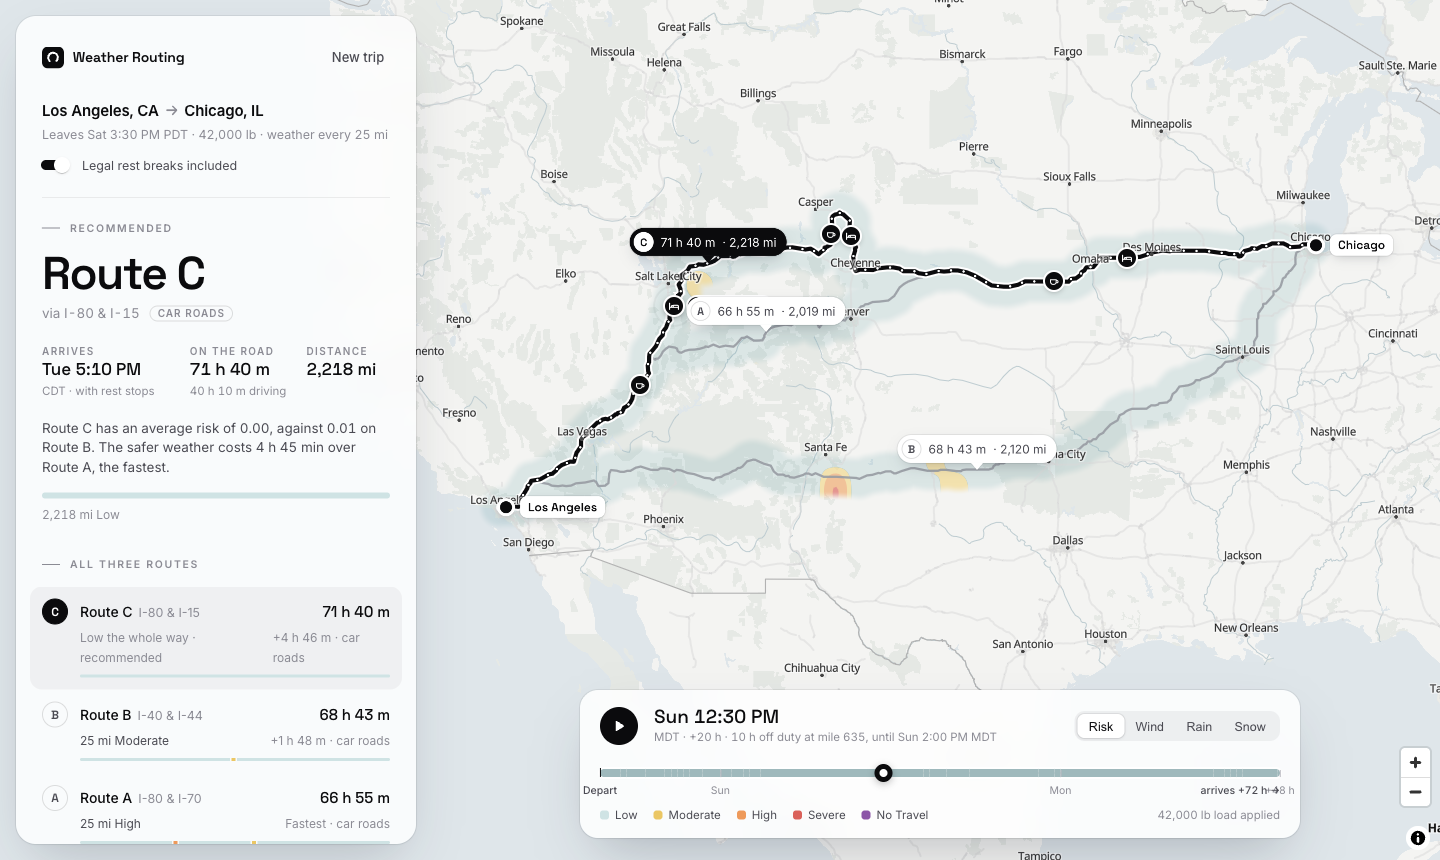
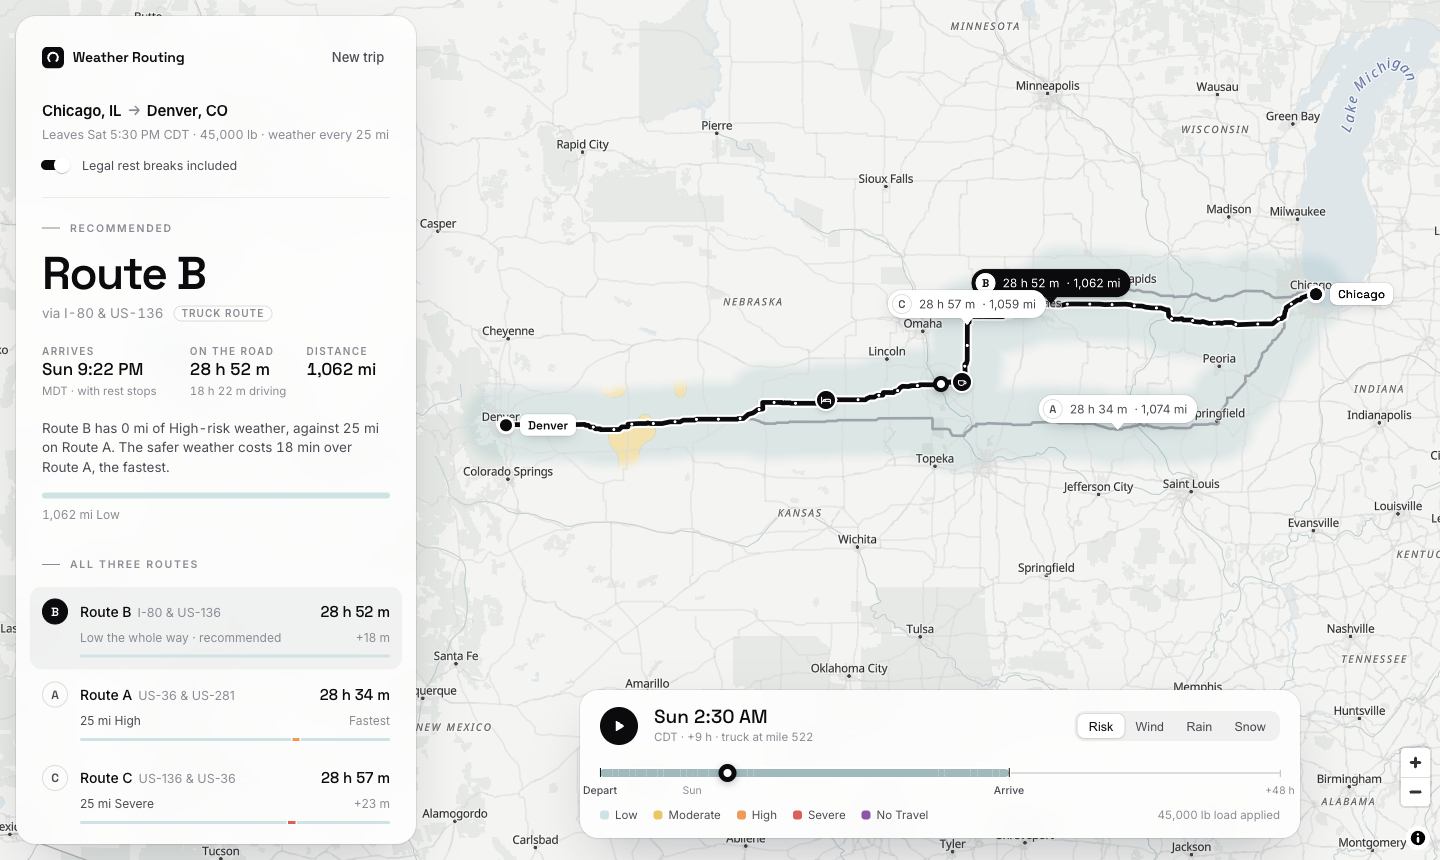
README: matching desktop screenshot (Chicago to Denver)

diff --git a/README.md b/README.md
@@ -2,9 +2,9 @@
 
 Pick the safest truck route, judged by the weather **at the hour the truck reaches each part of the road**, and by the load it carries.
 
-**[Live app](https://weather-truck-routing-ashy.vercel.app)** · **[Video walkthrough](https://www.loom.com/share/bab76d77d2a248faa9c6b97733fd833f)** · React + Django · try the "LA → Chicago" sample
+**[Live app](https://weather-truck-routing-ashy.vercel.app)** · **[Video walkthrough](https://www.loom.com/share/bab76d77d2a248faa9c6b97733fd833f)** · React + Django · try a sample trip
 
-![Los Angeles to Chicago: three routes, the recommendation, rest stops and the weather heatmap 20 hours after departure](docs/desktop.png)
+![Chicago to Denver: three routes, the recommendation and why, rest stops, and the weather heatmap 9 hours after departure](docs/desktop.png)
 
 <p align="center"><img src="docs/phone.png" width="280" alt="On a phone: the map, the compact slider and the plan in a bottom sheet"></p>
 
